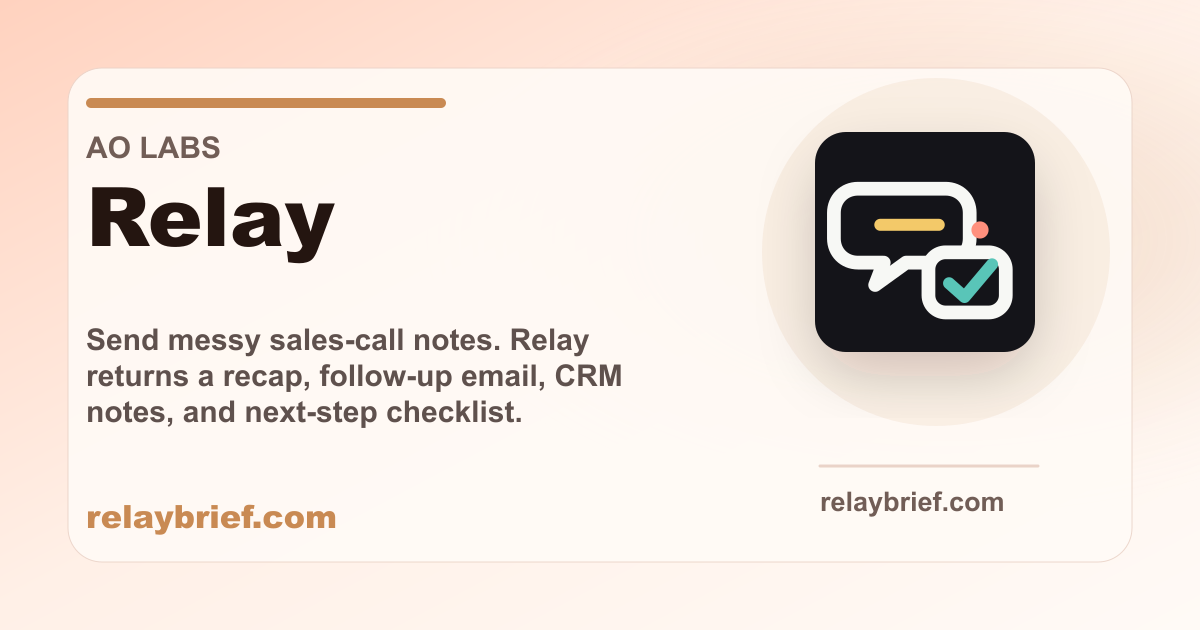
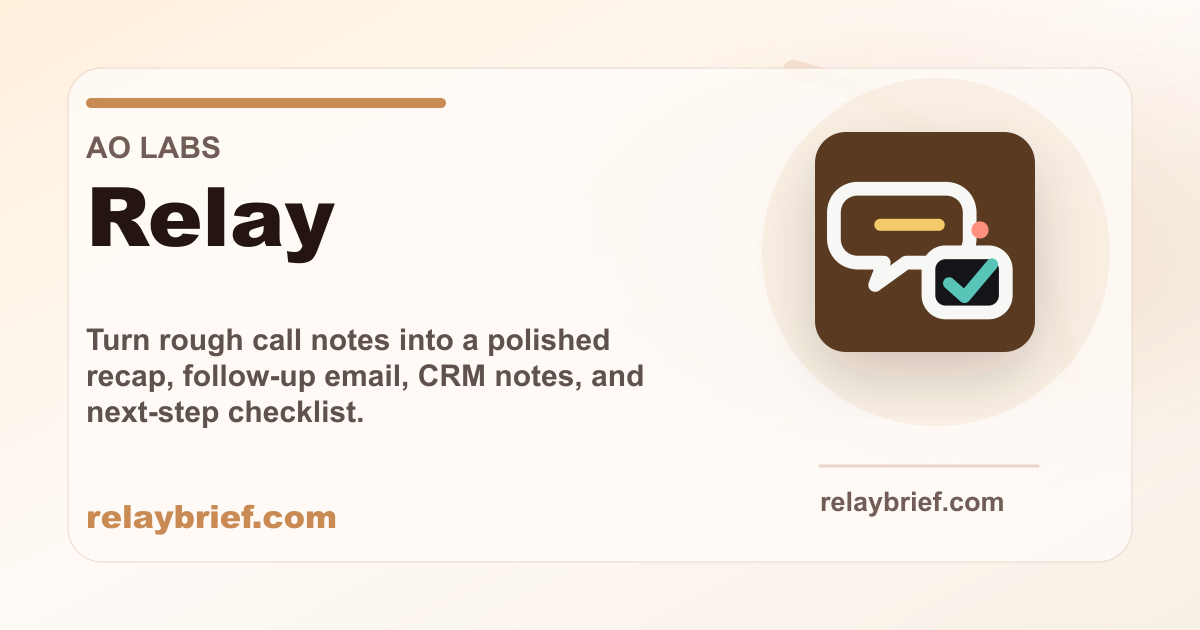
Refine social preview themes

Changed region(s): [[0.0617, 0.5127, 0.555, 0.6937], [0.6783, 0.2111, 0.8633, 0.573], [0.0, 0.0, 0.3392, 0.3317]]

diff --git a/index.html b/index.html
@@ -4,12 +4,12 @@
   <meta charset="UTF-8" />
   <meta name="viewport" content="width=device-width, initial-scale=1.0" />
   <title>Relay | Finished follow-up from messy notes</title>
-  <meta name="description" content="Send messy sales-call notes. Relay returns a recap, follow-up email, CRM notes, and next-step checklist.">
+  <meta name="description" content="Turn rough call notes into a polished recap, follow-up email, CRM notes, and next-step checklist.">
   <link rel="canonical" href="https://relaybrief.com/" />
   <meta property="og:type" content="website">
   <meta property="og:site_name" content="AO Labs">
   <meta property="og:title" content="Relay">
-  <meta property="og:description" content="Send messy sales-call notes. Relay returns a recap, follow-up email, CRM notes, and next-step checklist.">
+  <meta property="og:description" content="Turn rough call notes into a polished recap, follow-up email, CRM notes, and next-step checklist.">
   <meta property="og:url" content="https://relaybrief.com/">
   <meta property="og:image" content="https://relaybrief.com/og-image-20260506.png">
   <meta property="og:image:secure_url" content="https://relaybrief.com/og-image-20260506.png">
@@ -19,7 +19,7 @@
   <meta property="og:image:alt" content="Relay product preview card.">
   <meta name="twitter:card" content="summary_large_image">
   <meta name="twitter:title" content="Relay">
-  <meta name="twitter:description" content="Send messy sales-call notes. Relay returns a recap, follow-up email, CRM notes, and next-step checklist.">
+  <meta name="twitter:description" content="Turn rough call notes into a polished recap, follow-up email, CRM notes, and next-step checklist.">
   <meta name="twitter:image" content="https://relaybrief.com/og-image-20260506.png">
   <meta name="twitter:image:alt" content="Relay product preview card.">
   <link rel="icon" href="/favicon.svg?v=20260506-icons" type="image/svg+xml" />
